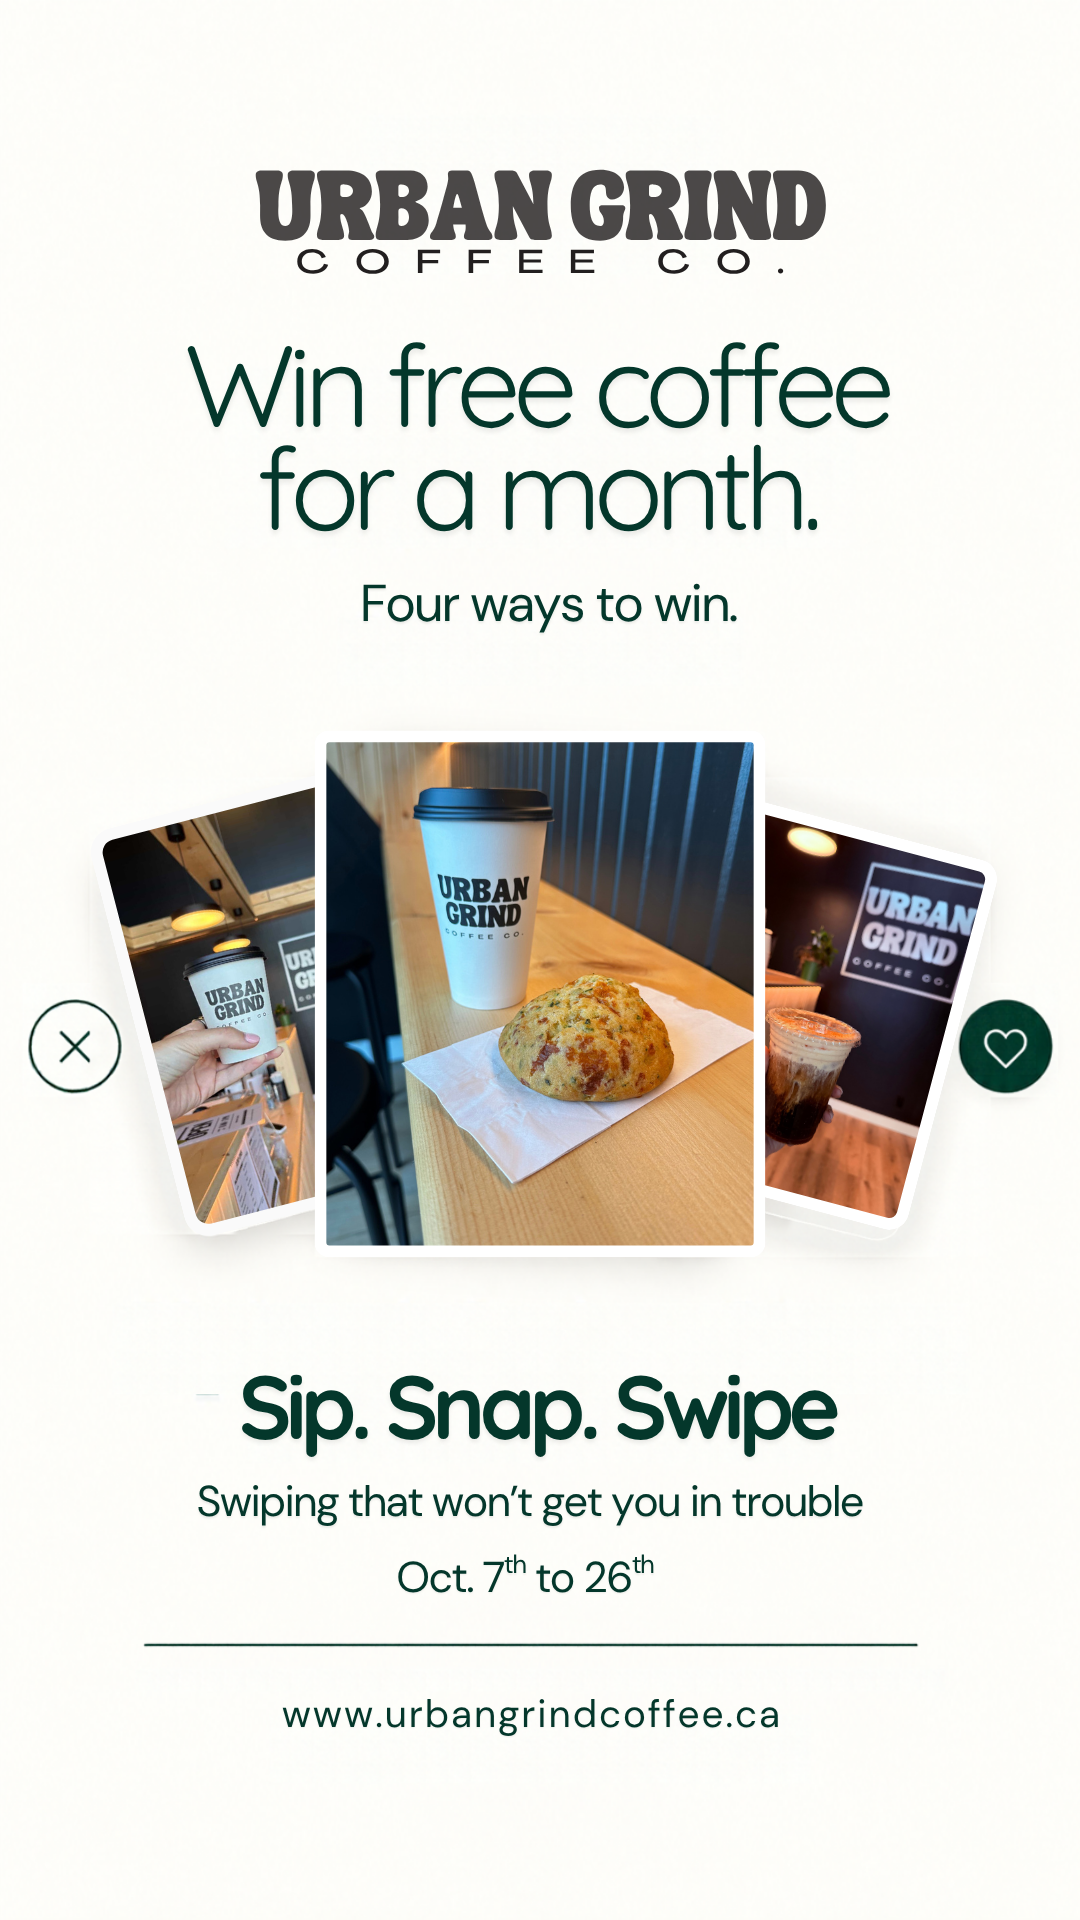
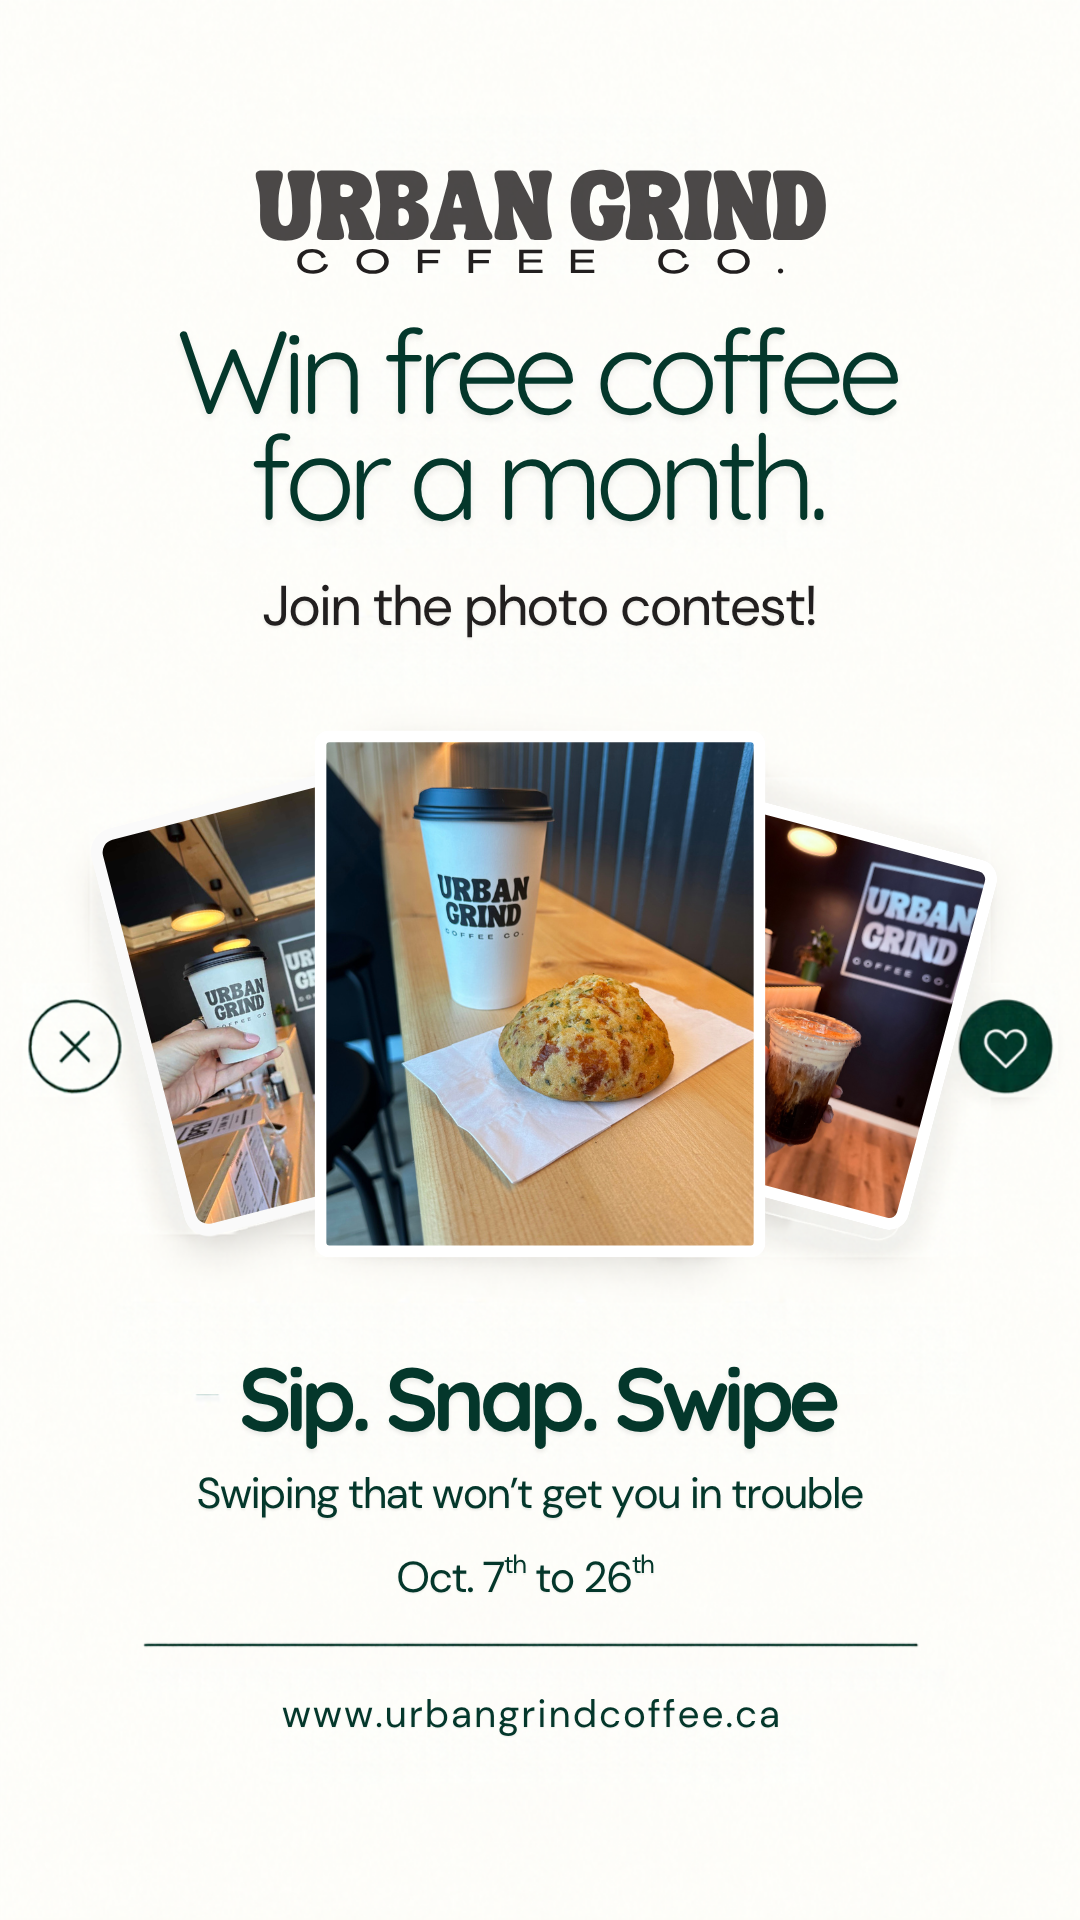
Use the updated story image for the coming soon download.

Changed region(s): [[0.1833, 0.1562, 0.825, 0.3438], [0.1833, 0.6875, 0.7944, 0.8125], [0.1528, 0.1562, 0.1833, 0.1875]]

diff --git a/src/lib/coming-soon.ts b/src/lib/coming-soon.ts
@@ -246,7 +246,7 @@ h1{margin:.55rem 0 0;font-family:Recoleta,"Iowan Old Style",Palatino,Georgia,ser
   var fileName = "Urban-Grind-Story.png";
   var blob = null;
   var busy = false;
-  var loading = fetch("/coming-soon/sip-snap-swipe.png?v=5").then(function (response) {
+  var loading = fetch("/coming-soon/sip-snap-swipe.png?v=6").then(function (response) {
     if (!response.ok) throw new Error("missing");
     return response.blob();
   }).then(function (data) {
